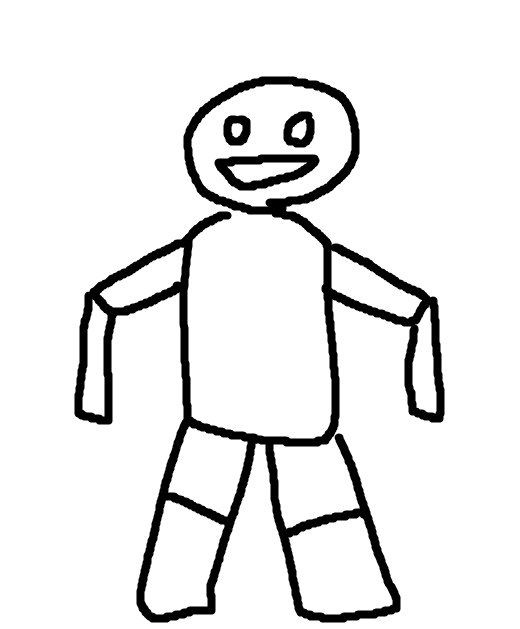
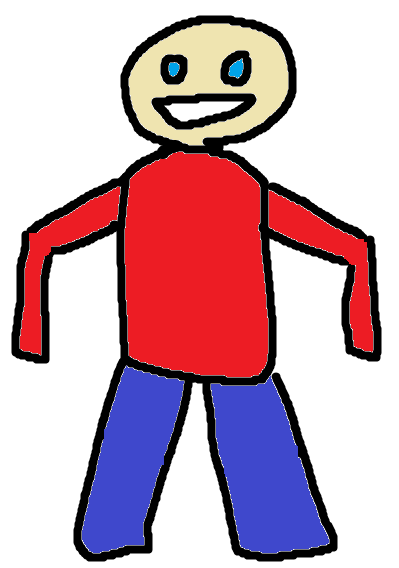
backend done

diff --git a/server/routes/route.ts b/server/routes/route.ts
@@ -14,38 +14,35 @@ router.post('/prompt', upload.single("image"), async (req: Request, res: Respons
   
   console.log("Received request:", req.body);
   const client = new OpenAI({apiKey: process.env.OPENAI_API_KEY});
-  
-    const imageFilePath = req.file?.path;
-    const receivedImageFile = [
-        await toFile(fs.createReadStream(imageFilePath!), null, {
-            type: "image/png",
-        }),
-    ];
-
+ 
   const imageFiles = [
-      "example_dude.png",
-      "example_dude_transparent.png"
+      "example_spritesheet.png",
   ];
-  //handle image upload with multer
-  /*
-  if (req.body.image) {
-      imageFiles.push(req.body.image);
-  };
-  */
-//   console.log("Image files:", imageFiles);
-//   const images = await Promise.all(
-//       imageFiles.map(async (file) =>
-//           await toFile(fs.createReadStream(file), null, {
-//               type: "image/png",
-//           })
-//       ),
-//   );
+
+  const imageFilePath = req.file?.path;
+  const receivedImageFile = [
+      await toFile(fs.createReadStream(imageFilePath!), null, {
+          type: "image/png",
+      }),
+  ];
+ 
+  console.log("Image files:", imageFiles);
+  const images = await Promise.all(
+      imageFiles.map(async (file) =>
+          await toFile(fs.createReadStream(file), null, {
+              type: "image/png",
+          })
+      ),
+  );
+
+  images.push(receivedImageFile[0]);
+
   console.log(req.body.message)
   const rsp = await client.images.edit({
-      model: "dall-e-2",
-      image: receivedImageFile[0],
-      //mask: images[1],
-      prompt: req.body.message,
+      model: "gpt-image-1",
+      //image: receivedImageFile,
+      image: images,
+      prompt: "Create a spritesheet of a character using the style and design from Image 2, and apply the animation poses from Image 1. Notice the colors of the legs in spritesheet (gray is left, black is right) and match their positions in the result",
   });
   
   console.log("Response from OpenAI:", rsp);
@@ -54,9 +51,11 @@ router.post('/prompt', upload.single("image"), async (req: Request, res: Respons
       res.status(500).json({ error: "No image data returned from OpenAI." });
       return;
     }
+  res.status(200).json(rsp.data);
   const image_base64 = rsp.data[0].b64_json;
   const image_bytes = Buffer.from(image_base64, "base64");
   const outputPath = "result.png";
+  
   fs.writeFileSync(outputPath, image_bytes);
     res.json({imageUrl: `http://localhost:3000/${outputPath}`});
 });
